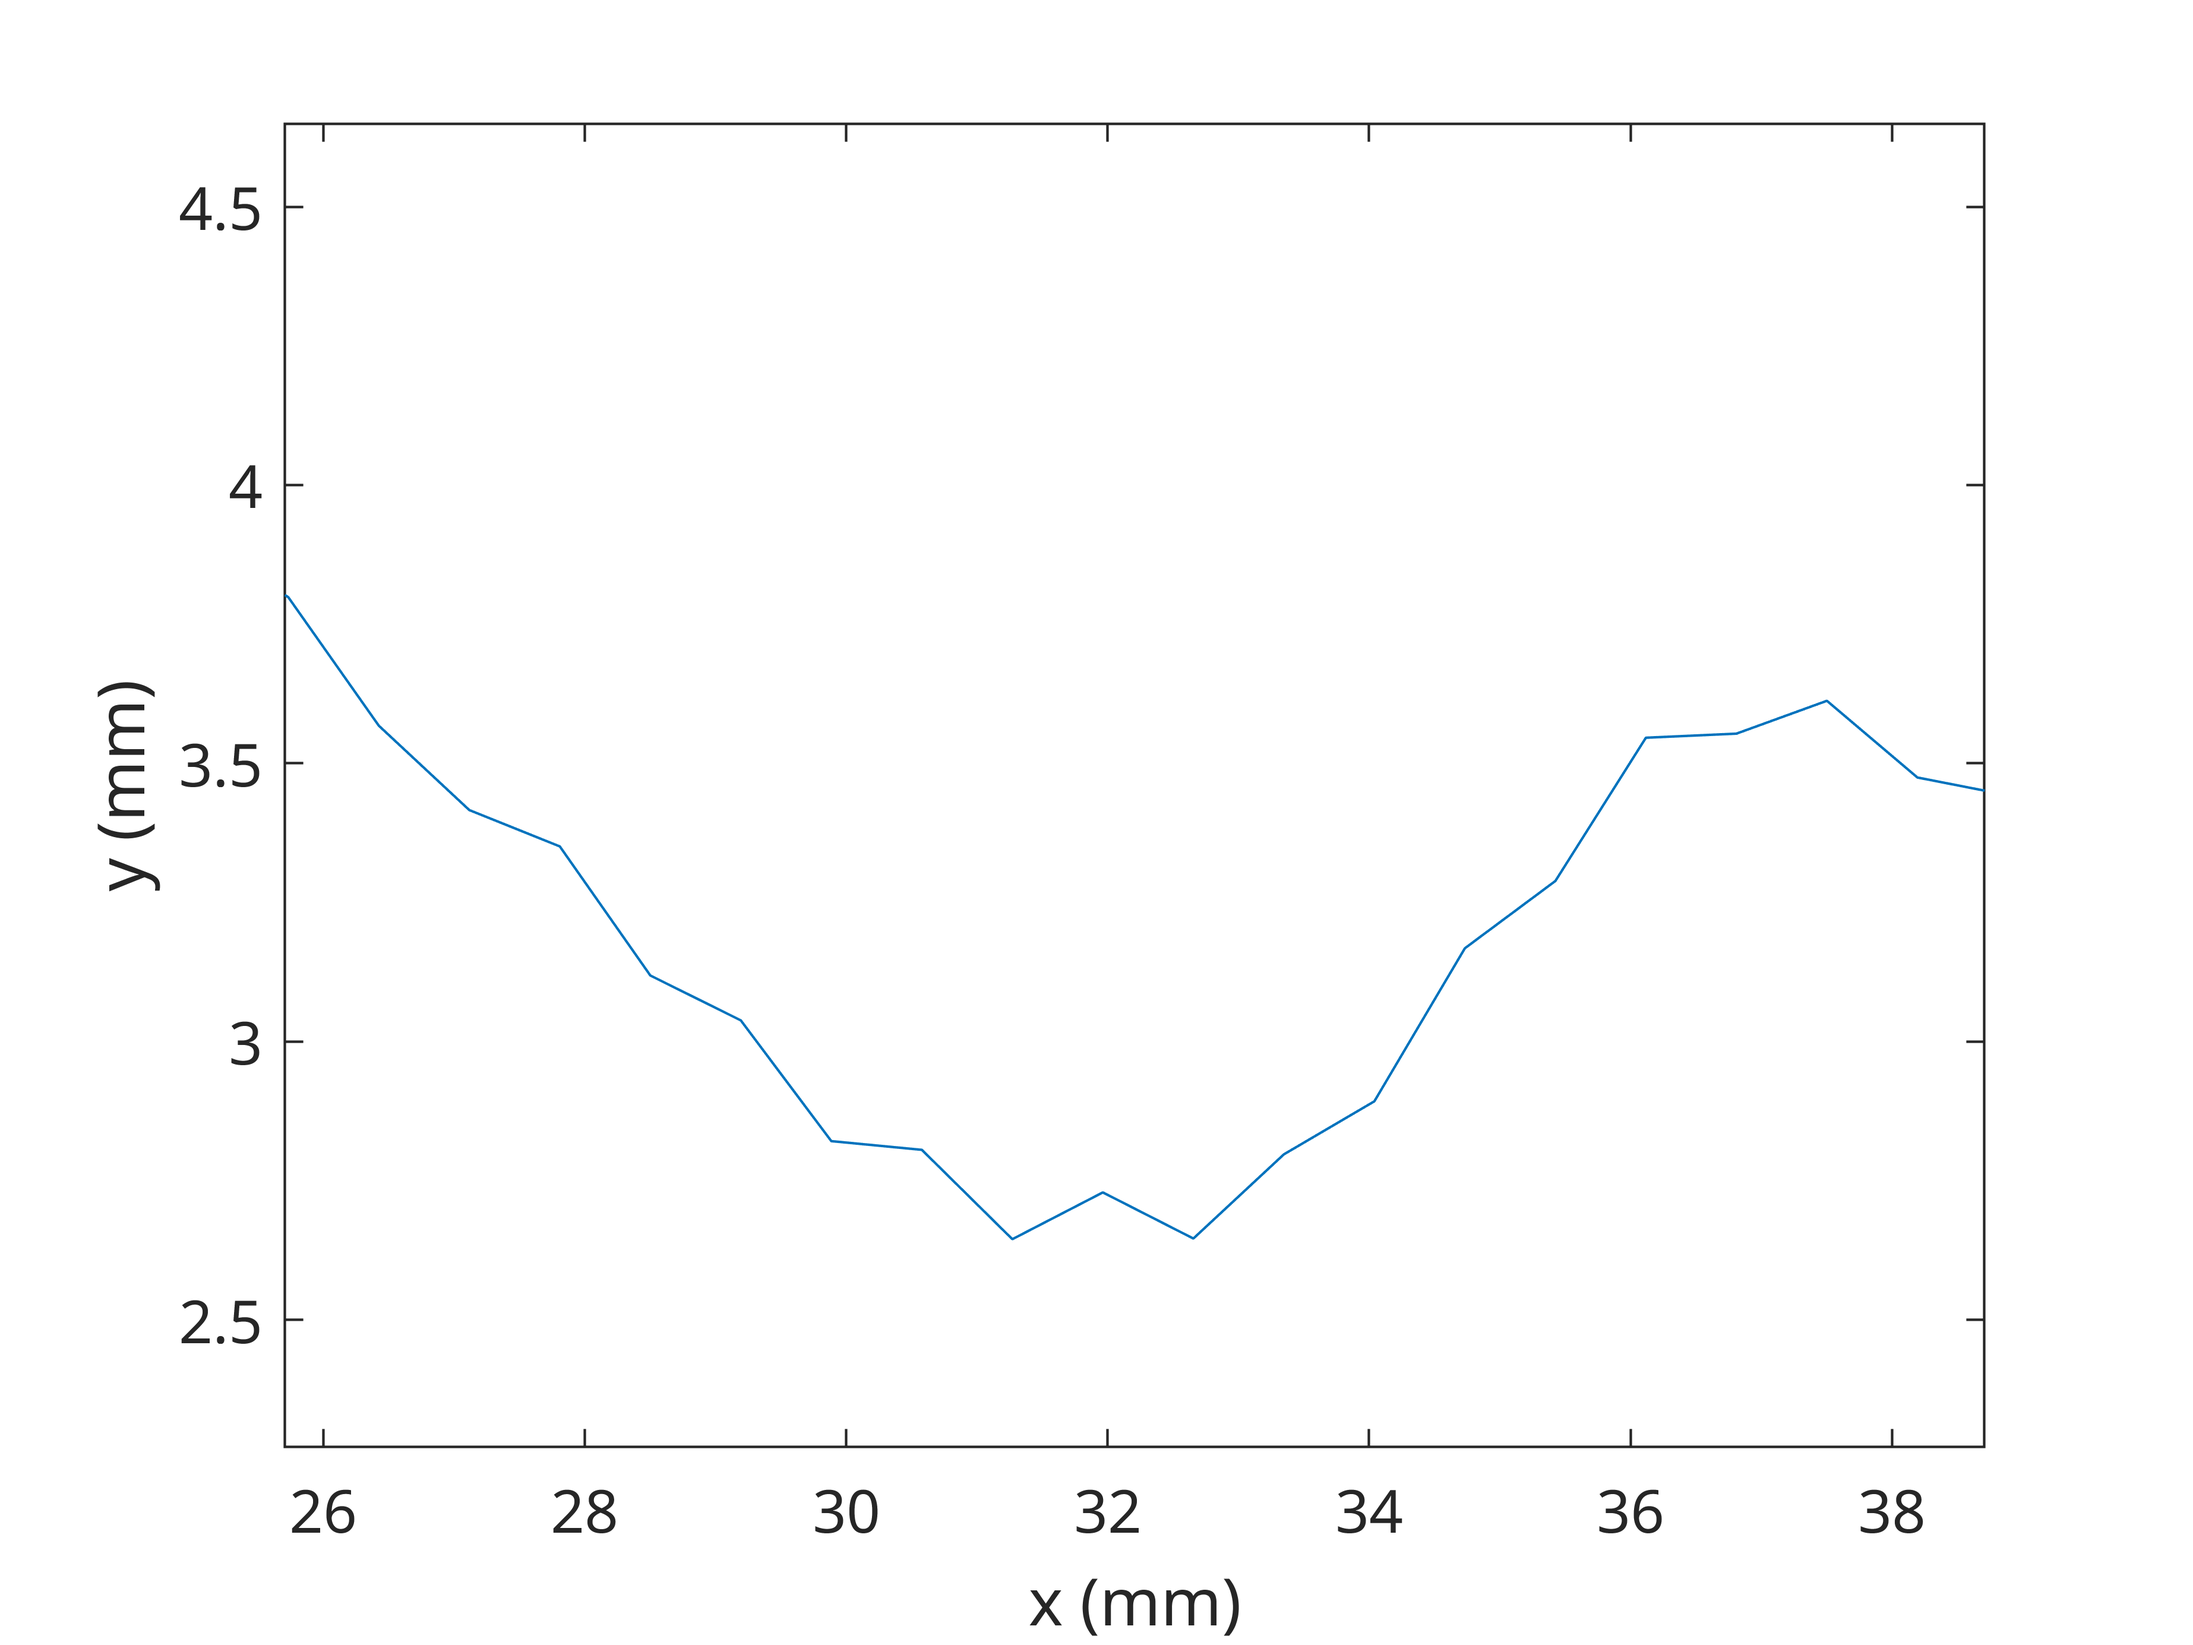
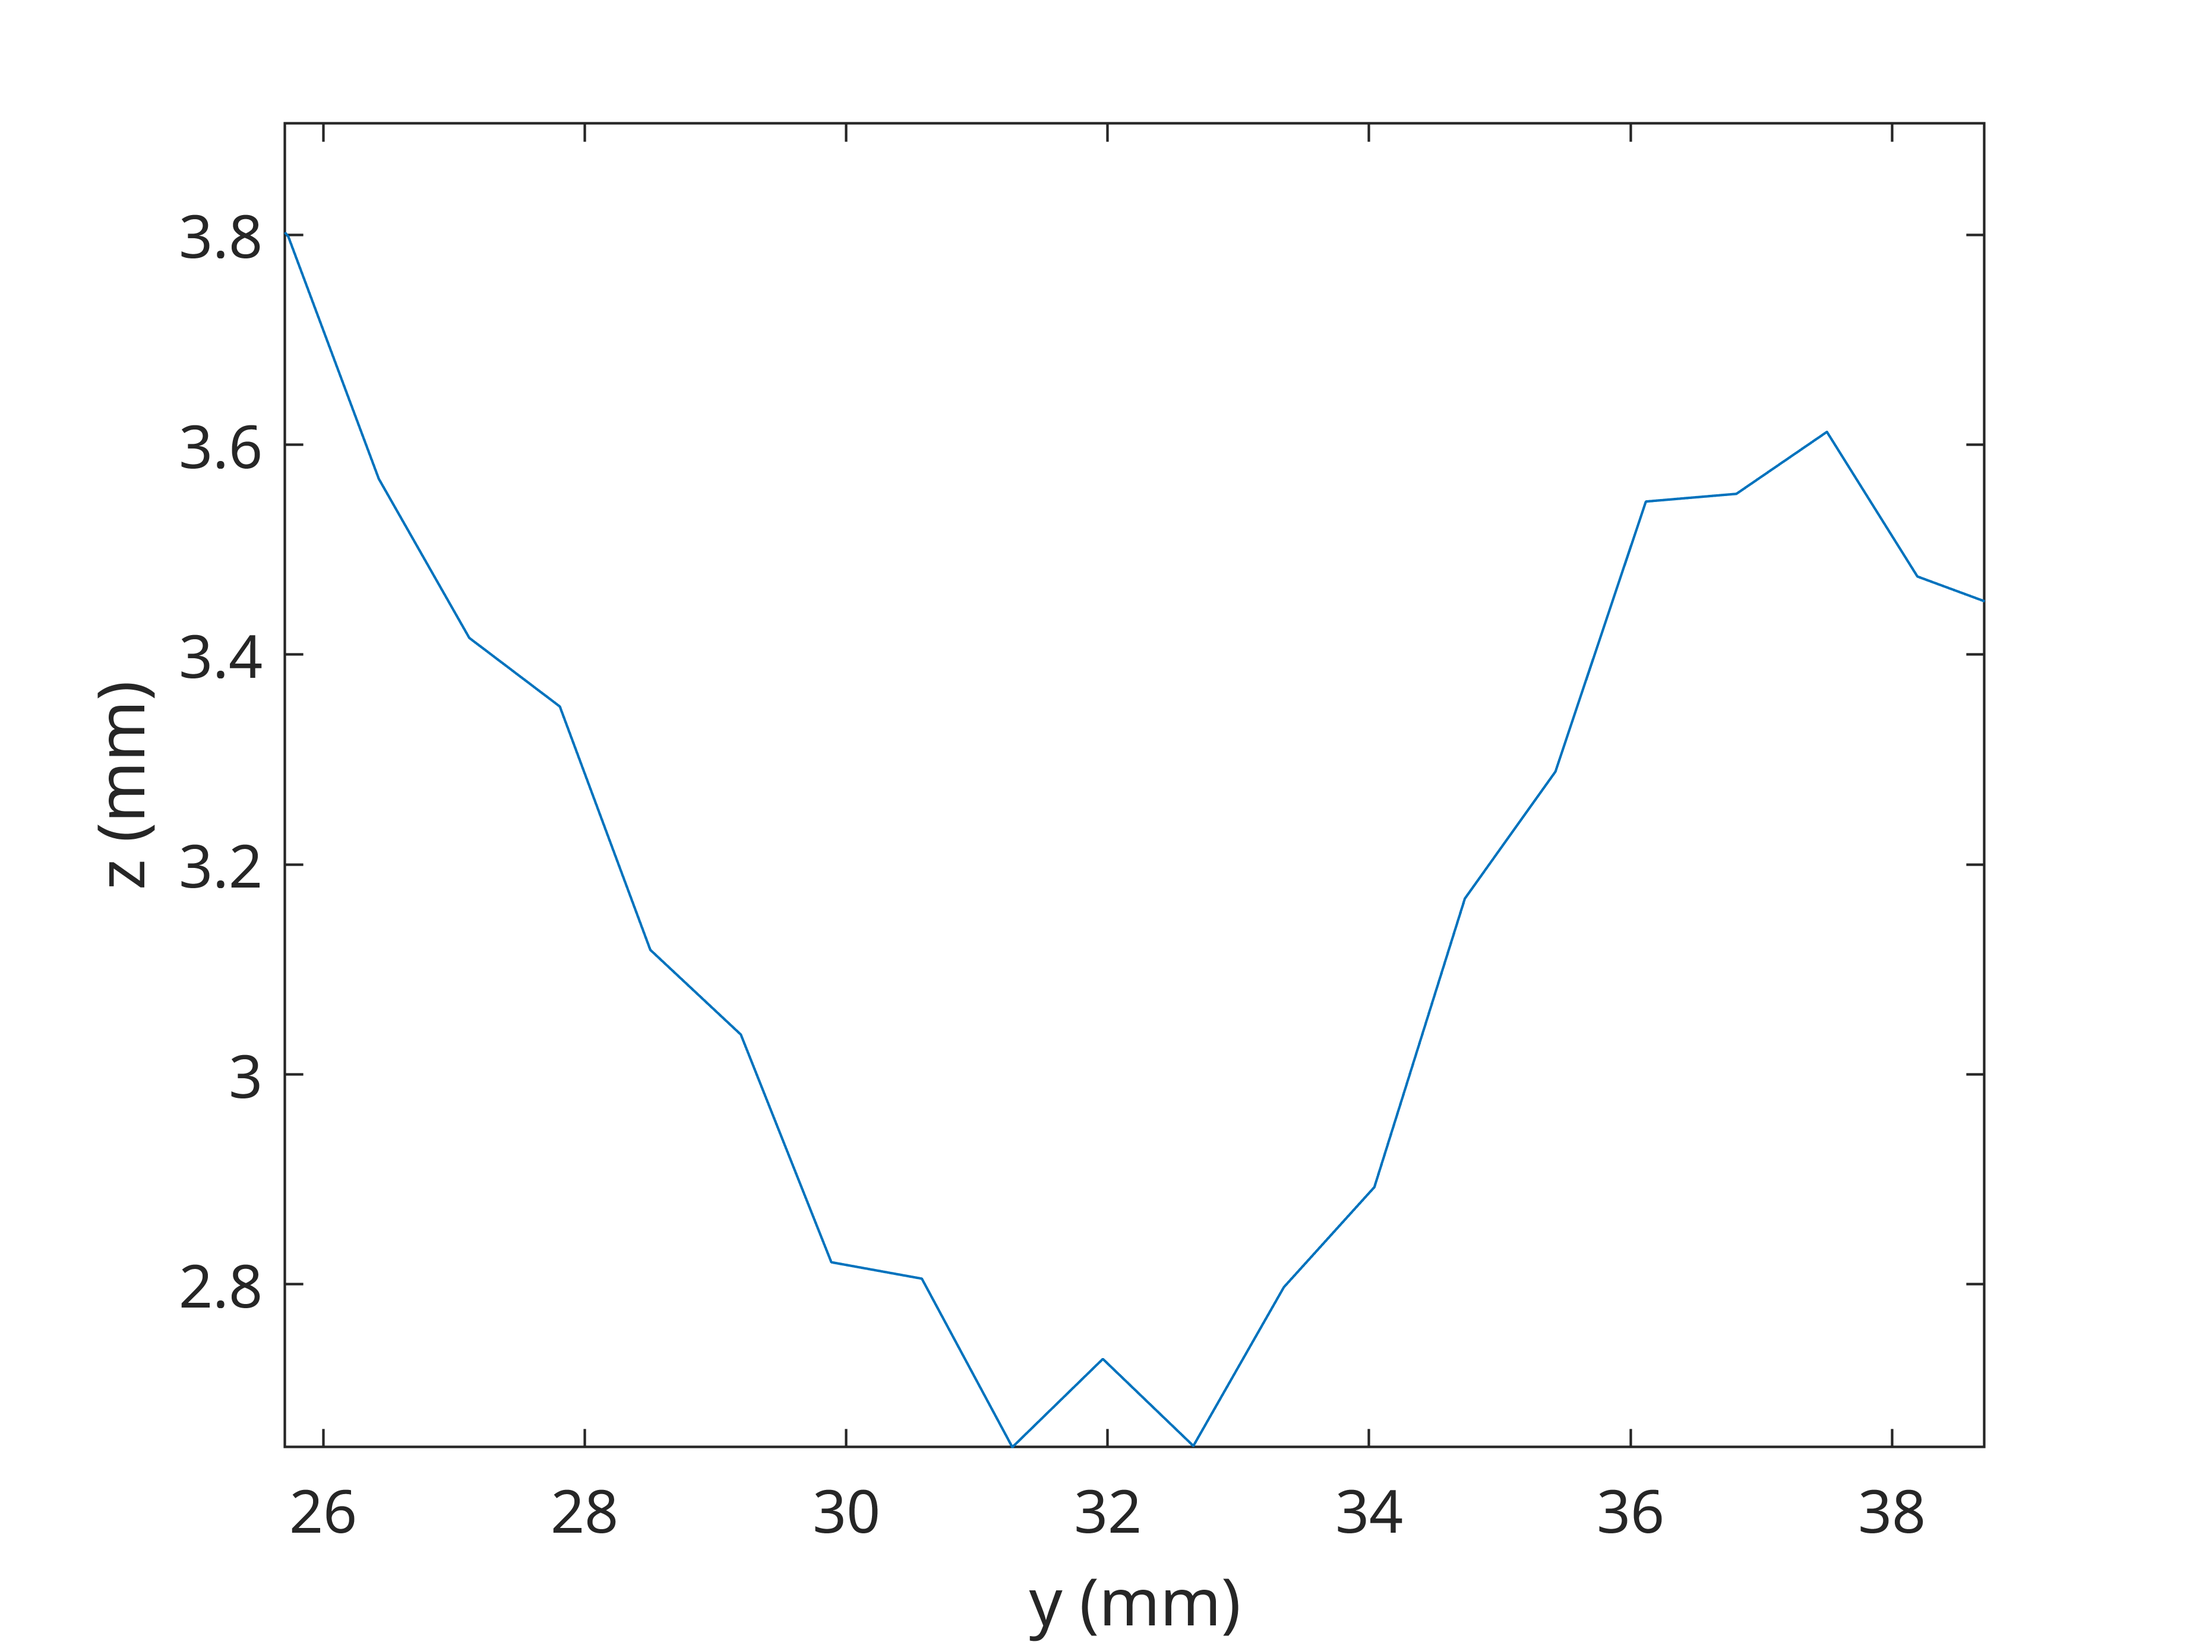
Slice min and max written to file now

diff --git a/FSSS/plotgeneral.m b/FSSS/plotgeneral.m
@@ -258,11 +258,18 @@ elseif isequal(plot_type,'fsss_analytic') || ...
             isequal(plot_type, 'fsss_analytic_contour')
         plotcontournumeric(h, x, y, dd, vecnum, scale)
     elseif isequal(plot_type, 'fsss_edge')
+        % Open file we'll be writing to
+        min_file = fopen(filenm + "_min.txt",'w');
+        max_file = fopen(filenm + "_max.txt",'w');
+        
+        % Line formatting for each set of coordinates
+        formatSpec = '%f %f %f\n';
+        
         % X-axis in plot is the y-axis in FSSS
         % Height of the plot is z
         % Get first index of x greater than x_min (slice FSSS along x-axis)
         idx = find(x > x_min, 1);
-        z = h(:,idx);
+        z = h(:,idx).';
         
         % Get the upper and lower bound of the plot's x-axis
         if full
@@ -288,9 +295,13 @@ elseif isequal(plot_type,'fsss_analytic') || ...
         [min_val, min_idx, max_val, max_idx] = getminandmax(z);
         
         % Write the result to a file
-        %writelines(["" + x(idx) + " " + ],filenm + "_min.txt",WriteMode="append")
+        fprintf(min_file, formatSpec, [x(idx), y(min_idx), min_val]);
+        fprintf(max_file, formatSpec, [x(idx), y(max_idx), max_val]);
+
+        %plot2dnumeric(y,z,y_min,y_max,z_min,z_max);
         
-        plot2dnumeric(y,z,y_min,y_max,z_min,z_max);
+        fclose(min_file);
+        fclose(max_file);
     end
 else
     fprintf("Error: %s \'%s\'\n", "Invalid Option", plot_type)

diff --git a/FSSS/getminandmax.m b/FSSS/getminandmax.m
@@ -13,13 +13,14 @@ max_idx = locs(1);
 max_val = pks(1);
 min_idx = locs(1);
 min_val = pks(1);
-for i = locs.'
-    if max_val < z(i)
-        max_idx = i;
-        max_val = z(i);
+for i=1:size(locs,2)
+    idx = locs(i);
+    if max_val < z(idx)
+        max_idx = idx;
+        max_val = z(idx);
     end
-    if min_val > z(i)
-        min_idx = i;
-        min_val = z(i);
+    if min_val > z(idx)
+        min_idx = idx;
+        min_val = z(idx);
     end
 end

diff --git a/FSSS/plot2dnumeric.m b/FSSS/plot2dnumeric.m
@@ -19,6 +19,6 @@ ax = p.Parent;
 ax.XLim = [x_min, x_max];
 ax.YLim = [y_min, y_max];
 
-xlabel('x (mm)')
-ylabel('y (mm)')
+xlabel('y (mm)')
+ylabel('z (mm)')
 ax.FontSize = 12;
